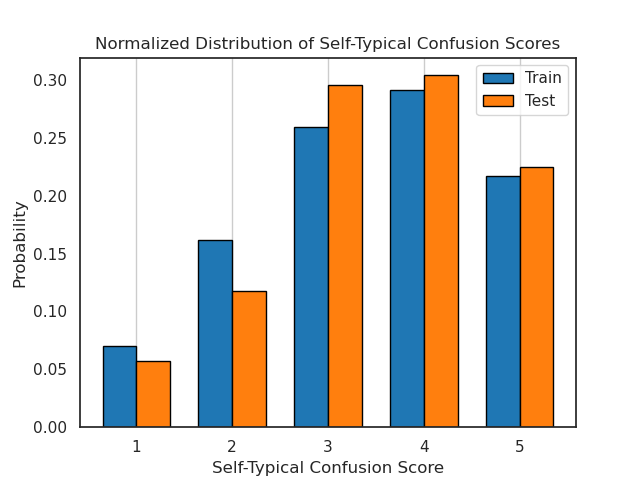
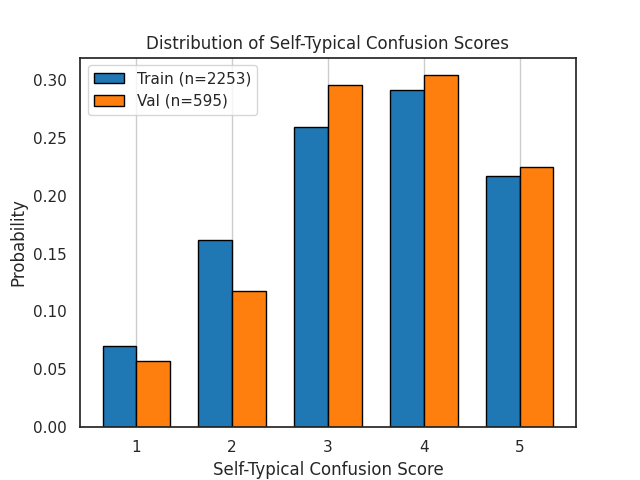
Update plotting script.

diff --git a/analyses/plot_data_distributions.py b/analyses/plot_data_distributions.py
@@ -14,14 +14,14 @@ def main():
         print("Invalid plot dimension. Please choose 'self-typical-confusion' or 'self-typical-interactions'.")
         return
 
-    with open('data/train.jsonl', 'r') as f:
+    with open('../data/train.jsonl', 'r') as f:
         train_data = [json.loads(line) for line in f]
         if plot_dimension == 'self-typical-confusion':
             confusion_train_data = [example['self-typical-confusion'] for example in train_data if 'self-typical-confusion' in example and example['self-typical-confusion'] is not None]
         else:
             typical_train_data = [example['self-typical-interactions'] for example in train_data if 'self-typical-interactions' in example and example['self-typical-interactions'] is not None]    
 
-    with open('data/test.jsonl', 'r') as f:
+    with open('../data/test.jsonl', 'r') as f:
         test_data = [json.loads(line) for line in f]
         if plot_dimension == 'self-typical-confusion':
             confusion_test_data = [example['self-typical-confusion'] for example in test_data if 'self-typical-confusion' in example and example['self-typical-confusion'] is not None]
@@ -31,7 +31,7 @@ def main():
     if plot_dimension == 'self-typical-confusion':
         df = pd.DataFrame({
             'Self-Typical Confusion Score': np.concatenate([confusion_train_data, confusion_test_data]),
-            'Dataset': ['Train'] * len(confusion_train_data) + ['Test'] * len(confusion_test_data)
+            'Dataset': ['Train'] * len(confusion_train_data) + ['Val'] * len(confusion_test_data)
         })
 
         bin_edges = np.arange(0.5, 6, 1)
@@ -44,12 +44,12 @@ def main():
         # Plot as bar chart for probability distributions
         width = 0.35
         x = np.arange(1, 6)
-        plt.bar(x - width/2, train_probs, width, label='Train', color='tab:blue', edgecolor='black')
-        plt.bar(x + width/2, test_probs, width, label='Test', color='tab:orange', edgecolor='black')
+        plt.bar(x - width/2, train_probs, width, label=f'Train (n={len(confusion_train_data)})', color='tab:blue', edgecolor='black')
+        plt.bar(x + width/2, test_probs, width, label=f'Val (n={len(confusion_test_data)})', color='tab:orange', edgecolor='black')
         plt.xlabel('Self-Typical Confusion Score')
         plt.ylabel('Probability')
         plt.xticks([1, 2, 3, 4, 5])
-        plt.title('Normalized Distribution of Self-Typical Confusion Scores')
+        plt.title('Distribution of Self-Typical Confusion Scores')
         plt.legend()
         plt.grid(axis='x', alpha=1)
         plt.savefig('self_typical_confusion_distribution.png')
@@ -57,8 +57,8 @@ def main():
     else:
         bin_edges = np.arange(0.5, 6, 1)
         df = pd.DataFrame({
-            'Self-Typical Interactions': np.concatenate([typical_train_data, typical_test_data]),
-            'Dataset': ['Train'] * len(typical_train_data) + ['Test'] * len(typical_test_data)
+            'Self-Typical Interaction score': np.concatenate([typical_train_data, typical_test_data]),
+            'Dataset': ['Train'] * len(typical_train_data) + ['Val'] * len(typical_test_data)
         })
 
         # Compute normalized histograms for each dataset
@@ -70,12 +70,12 @@ def main():
         # Plot as bar chart for probability distributions
         width = 0.35
         x = np.arange(1, 6)
-        plt.bar(x - width/2, train_probs, width, label='Train', color='tab:blue', edgecolor='black')
-        plt.bar(x + width/2, test_probs, width, label='Test', color='tab:orange', edgecolor='black')
-        plt.xlabel('Number of Self-Typical Interactions')
+        plt.bar(x - width/2, train_probs, width, label=f'Train (n={len(typical_train_data)})', color='tab:blue', edgecolor='black')
+        plt.bar(x + width/2, test_probs, width, label=f'Val (n={len(typical_test_data)})', color='tab:orange', edgecolor='black')
+        plt.xlabel('Self-Typical Interaction score')
         plt.ylabel('Probability')
         plt.xticks([1, 2, 3, 4, 5])
-        plt.title('Normalized Distribution of Self-Typical Interactions')
+        plt.title('Distribution of Self-Typical Interaction Scores')
         plt.legend()
         plt.grid(axis='y', alpha=1)
         plt.savefig('self_typical_interactions_distribution.png')
